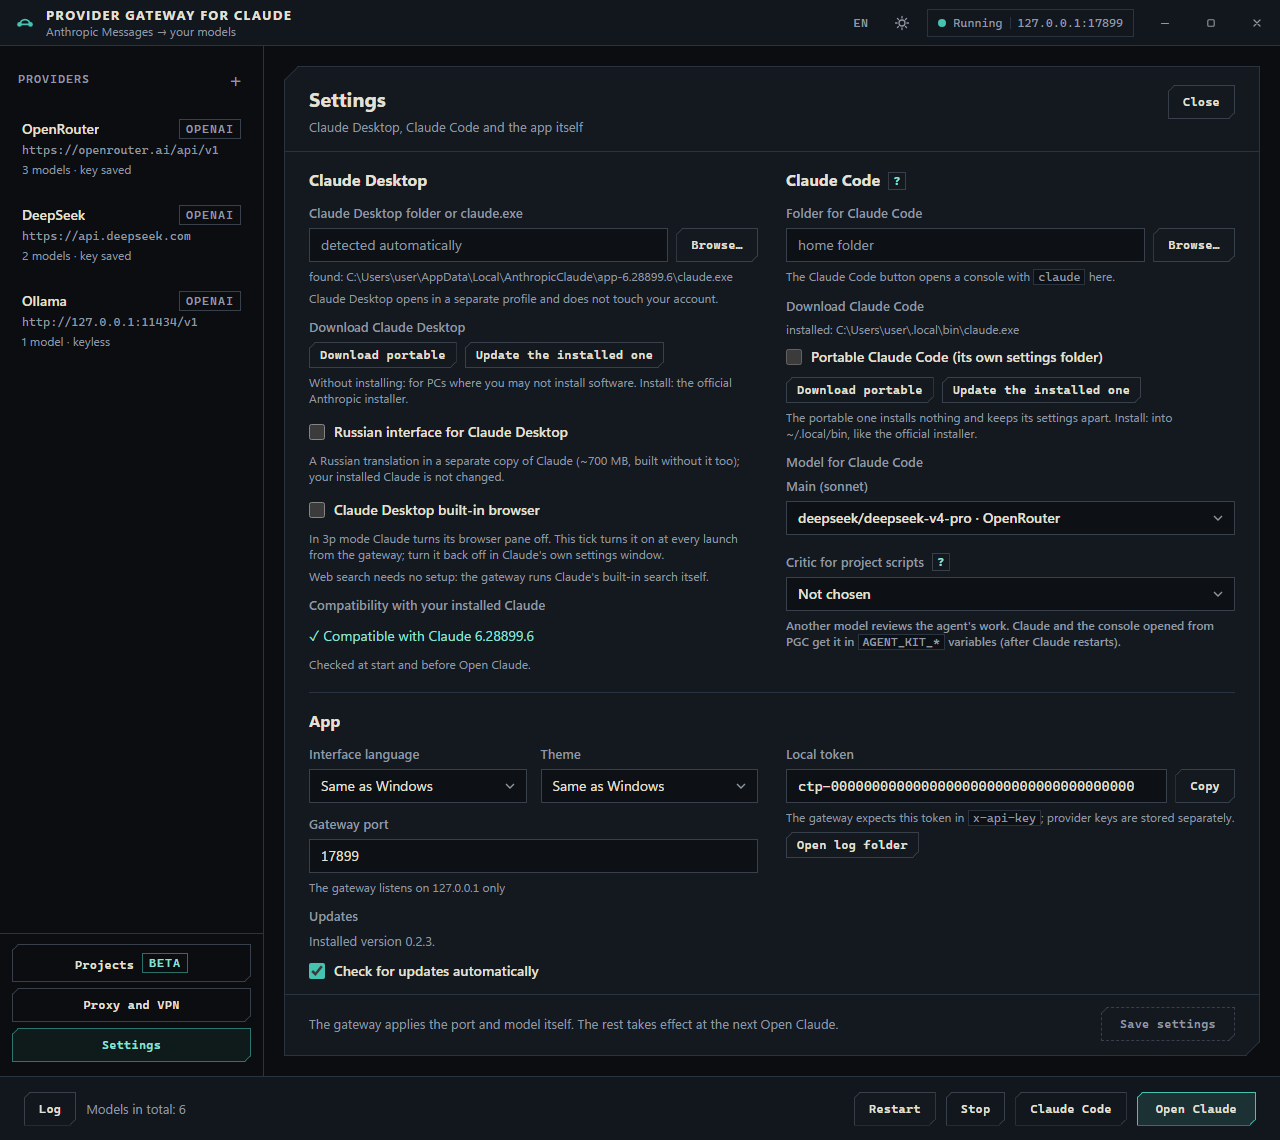
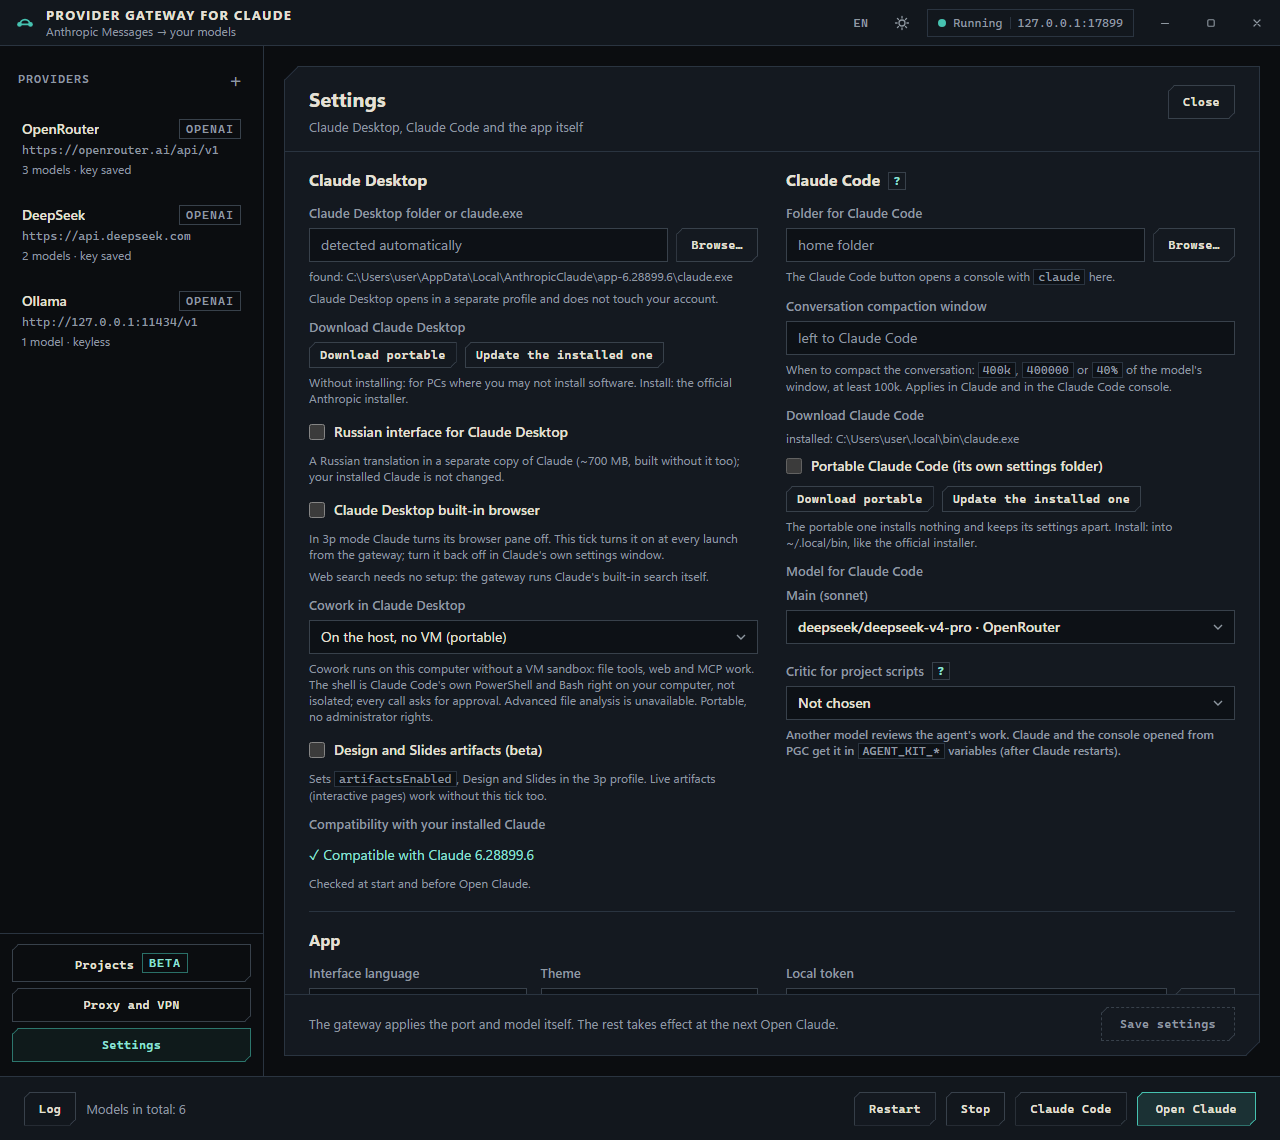
docs: the README covers 0.2.4 - Cowork modes, compaction, artifacts, the signature CA
Settings screenshots retaken with the new groups; the third-party notices gain tar and filetime from the kit unpacker.

Changed region(s): [[0.2188, 0.2456, 0.9688, 0.8596], [0.625, 0.8289, 0.6562, 0.8596]]

diff --git a/README.ru.md b/README.ru.md
@@ -42,11 +42,14 @@ Claude Desktop умеет работать в режиме стороннего 
 - **Инструменты MCP по требованию.** Claude Code находит инструменты MCP своим поиском, как обычный Claude, а не отправляет схемы сотен инструментов в каждом ходе: с несколькими коннекторами ход занимает десятки тысяч токенов вместо 150–200 тысяч. Работает в консоли и во вкладке Code у Claude Desktop.
 - **Бесплатный веб-поиск для Claude.** Встроенный `WebSearch` Claude (Claude Code и Claude Desktop) работает без ключей и настройки: шлюз отвечает на него сам, см. [Веб-поиск](#веб-поиск).
 - **VPN-подписки и ядро mihomo.** Можно выбрать узел или «Авто», проверить задержку и решить, что идёт через VPN: только Claude и провайдеры, системный прокси (подходит доменным ПК) или весь трафик (TUN). См. [Прокси и VPN](#прокси-и-vpn).
-- **Claude без установки.** Claude Desktop и Claude Code скачиваются с официальных адресов Anthropic: портативно, без установки в систему, или обычной установкой. Подпись и контрольная сумма сверяются. См. [Claude без установки](#claude-без-установки).
+- **Claude без установки.** Claude Desktop и Claude Code скачиваются с официальных адресов Anthropic: портативно, без установки в систему, или обычной установкой. Подпись и контрольная сумма сверяются, а подпись должна быть от собственного центра подписи кода Anthropic. См. [Claude без установки](#claude-без-установки).
 - **Ключи лежат в диспетчере учётных данных Windows**, а не в файлах. Шлюз слушает только `127.0.0.1` и требует локальный токен на маршрутах сообщений и моделей; `/health` и заглушки настройки `/v1/oauth` отвечают без него. Файлы настроек пишутся через временный файл, поэтому оборванная запись не опустошит их.
 - **Подстраивается под капризные модели.** Провайдеры принимают разное, и многие отвечают голым 400. Шлюз предотвращает известные беды (повтор имён инструментов; разговор, не влезший в окно, сообщается Claude Code так же, как это делает Anthropic, и он сам сжимает его), а когда модель отвергает запрос без объяснений, упрощает его по шагам: картинки убираются, уровень рассуждения, параметры сэмплирования и stream_options отбрасываются, имена инструментов сокращаются, подряд идущие сообщения сливаются, схемы инструментов упрощаются, инструментов остаётся не больше 128. Рассуждение прошлых ответов возвращается провайдерам, которым оно нужно (режим рассуждения DeepSeek с инструментами), и убирается у тех, кто его не принимает. Тот единственный шаг, который дважды подтвердил помощь для модели, запоминается в `model-profiles.json` рядом с настройками (удалить файл — забыть; записи живут 30 дней), а журнал шлюза пишет, что он сделал и что ответил провайдер.
 - **Не ломается после обновлений Claude**: приложение читает правила моделей из установленной версии, сверяет поля конфигурации и показывает в настройках, если что-то перестало совпадать.
-- **Русский интерфейс Claude Desktop** (по желанию): отдельная копия Claude с официальным русским переводом claude.ai. В этой копии в выборе папки Code есть и **«Без папки»**, который режим стороннего провайдера скрывает. Когда Claude обновляется, приложение готовит новую копию в фоне, и «Открыть Claude» не ждёт. Установленный Claude не меняется. Копия собирается и без русского языка (без перевода): только в ней процессы, которые запускает Claude (сессии Code, их npm, uv, git, MCP-серверы), видят настоящую папку `AppData\Local`, а не папку приложения. Сама копия Claude не обновляет: новые версии ставит обычный Claude.
+- **Русский интерфейс Claude Desktop** (по желанию): отдельная копия Claude с официальным русским переводом claude.ai. В этой копии в выборе папки Code есть и **«Без папки»**, который режим стороннего провайдера скрывает. Когда Claude обновляется, приложение готовит новую копию в фоне, и «Открыть Claude» не ждёт. Установленный Claude не меняется. Копия собирается и без русского языка (без перевода): только в ней процессы, которые запускает Claude (сессии Code, их npm, uv, git, MCP-серверы), видят настоящую папку `AppData\Local`, а не папку приложения. Если Claude пришёл пакетом MSIX без папки Squirrel, копия собирается из установленного пакета. Сама копия Claude не обновляет: новые версии ставит обычный Claude.
+- **Cowork в Claude Desktop на 3P.** В режиме стороннего провайдера Claude ведёт Cowork на хосте, но собственная проверка выключает Cowork у любой копии, запущенной не из MSIX. Приложение патчит свою копию, чтобы Cowork работал там без пакета MSIX, прав администратора и VM, а Claude открывался на Chat, а не во вкладке Code. Свой shell Cowork живёт в VM, поэтому на хосте сессия получает PowerShell и Bash Claude Code без изоляции: каждый вызов спрашивает подтверждение. В настройках три режима: на хосте (портативно), выключен (только Chat) и через установленный пакет MSIX Claude с VM (в этом режиме русского перевода нет).
+- **Артефакты (Design и Slides, бета)**: галочка в настройках включает их в 3p-профиле; живые артефакты работают и без неё.
+- **Окно сжатия разговора**: поле в настройках принимает `400k`, `400000` или `40%` окна модели для моделей с `[1m]` — в Desktop и в консоли.
 - **«Проекты»: подключить agent-kit и отключить** без команд в консоли: проверки после правок агента, вторая модель, которая проверяет его работу, и охрана секретов. Проверки проекта показаны с галочками, ничего не уходит с компьютера, а «Отключить…» убирает только то, что добавил agent-kit и вы не меняли. См. [Проекты](#проекты).
 - **Модель-критик для скриптов проекта**: другая модель шлюза проверяет работу агента, так что проверка работает и без подписки Claude.
 - **«?» у непростых настроек** открывает короткое пояснение простыми словами: что это, зачем и что будет, если ничего не трогать.

diff --git a/README.md b/README.md
@@ -42,11 +42,14 @@ Claude Desktop can run in third-party inference mode and Claude Code can talk to
 - **MCP tools on demand.** Claude Code finds MCP tools with its own tool search, as the regular Claude does, instead of sending hundreds of tool schemas on every turn: with a few connectors a turn takes tens of thousands of tokens instead of 150–200 thousand. Works in the console and in the Code tab of Claude Desktop.
 - **Free web search for Claude.** Claude's built-in `WebSearch` (Claude Code and Claude Desktop) works without any key or setup: the gateway answers it itself, see [Web search](#web-search).
 - **VPN subscriptions on the mihomo core.** Pick a node or Auto, test latency and choose what goes through the VPN: Claude and providers only, the system proxy (works on domain PCs) or all traffic (TUN). See [Proxy and VPN](#proxy-and-vpn).
-- **Claude without installing.** Claude Desktop and Claude Code download from Anthropic's own addresses, either portable with nothing installed or as a regular install. The signature and checksum are verified. See [Claude without installing](#claude-without-installing).
+- **Claude without installing.** Claude Desktop and Claude Code download from Anthropic's own addresses, either portable with nothing installed or as a regular install. The signature and checksum are verified, and the signature must come from Anthropic's own code-signing authority. See [Claude without installing](#claude-without-installing).
 - **Keys stay in Windows Credential Manager**, never in files. The gateway listens on `127.0.0.1` only and requires a local token on the message and model routes; `/health` and the `/v1/oauth` setup stubs answer without it. The config files are written through a temporary file, so a cut write cannot empty them.
 - **Adapts to picky models.** Providers differ in what they accept, and many answer with a bare 400. The gateway prevents the known trouble (repeated tool names, a conversation that no longer fits the window is reported to Claude Code the way Anthropic does, so it compacts by itself), and when a model refuses a request without saying why, it simplifies it step by step: images left out, reasoning effort, sampling parameters and stream options dropped, tool names shortened, consecutive messages merged, tool schemas simplified, tools capped at 128. The reasoning of earlier replies goes back to providers that require it (DeepSeek's thinking mode with tools) and is dropped for those that refuse it. The one step that made the difference, confirmed twice for a model, is remembered in `model-profiles.json` next to the settings (delete it to forget; entries expire after 30 days) and the gateway log says what it did and what the provider answered.
 - **Keeps working after Claude updates**: the app reads Claude's model rules from the installed version, checks its config fields and tells you in Settings if something no longer matches.
-- **Russian interface for Claude Desktop** (optional): a separate patched copy of Claude with claude.ai's own Russian translation. The copy also brings back **No folder** in the Code folder picker, which third-party mode hides. When Claude updates, the app prepares the new copy in the background, so **Open Claude** does not wait. Your installed Claude is not modified. The copy is built without Russian too (no translation): only in it do the processes Claude starts (Code sessions, their npm, uv, git, MCP servers) see the real `AppData\Local` instead of the app's folder. The copy itself does not update Claude; new versions come from the regular Claude.
+- **Russian interface for Claude Desktop** (optional): a separate patched copy of Claude with claude.ai's own Russian translation. The copy also brings back **No folder** in the Code folder picker, which third-party mode hides. When Claude updates, the app prepares the new copy in the background, so **Open Claude** does not wait. Your installed Claude is not modified. The copy is built without Russian too (no translation): only in it do the processes Claude starts (Code sessions, their npm, uv, git, MCP servers) see the real `AppData\Local` instead of the app's folder. When Claude comes as an MSIX package with no Squirrel folder, the copy is built from the installed package. The copy itself does not update Claude; new versions come from the regular Claude.
+- **Cowork in Claude Desktop on 3P.** In third-party mode Claude runs Cowork on the host, but its own check turns Cowork off for any copy not started from MSIX. The app patches its copy so Cowork works there without an MSIX package, administrator rights or a VM, and Claude opens on Chat rather than the Code tab. Cowork's own shell lives in the VM, so on the host the session gets Claude Code's PowerShell and Bash, not isolated: every call asks for approval. A Settings choice offers three modes: on the host (portable), off (Chat only), and through an installed Claude MSIX package with the VM (no Russian translation in that mode).
+- **Artifacts (Design and Slides, beta)**: a tick in Settings enables them in the third-party profile; live artifacts work without it.
+- **A conversation compaction window**: a Settings field takes `400k`, `400000` or `40%` of the model's window for models marked `[1m]`, for Desktop and the console.
 - **Projects: connect agent-kit and disconnect it** without typing commands: checks after the agent's edits, a second model that reviews its work, and secret guarding. The project's own checks are listed with ticks, nothing leaves the computer, and Disconnect removes only what agent-kit added and you did not change. See [Projects](#projects).
 - **A critic model for project scripts**: pick another gateway model that reviews an agent's work, so a reviewer works without a Claude subscription too.
 - **"?" next to the harder settings** opens a short explanation in plain words: what it is, why it is there and what happens if you leave it alone.
